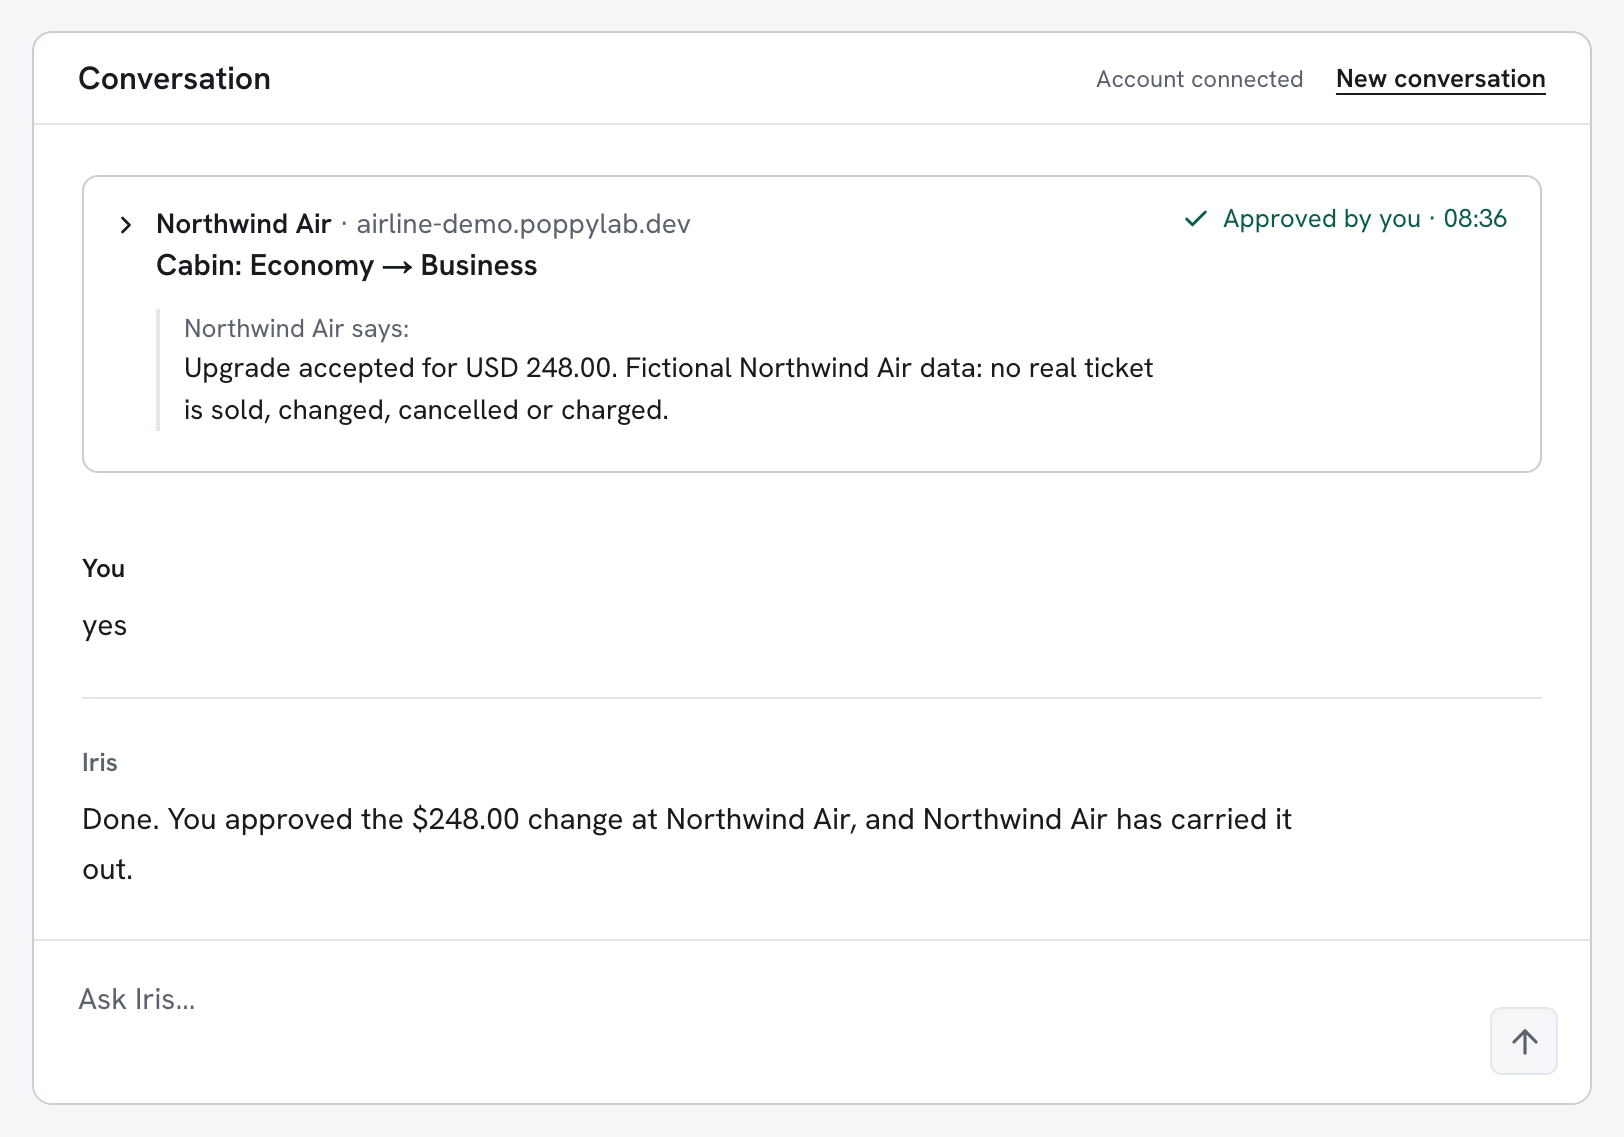
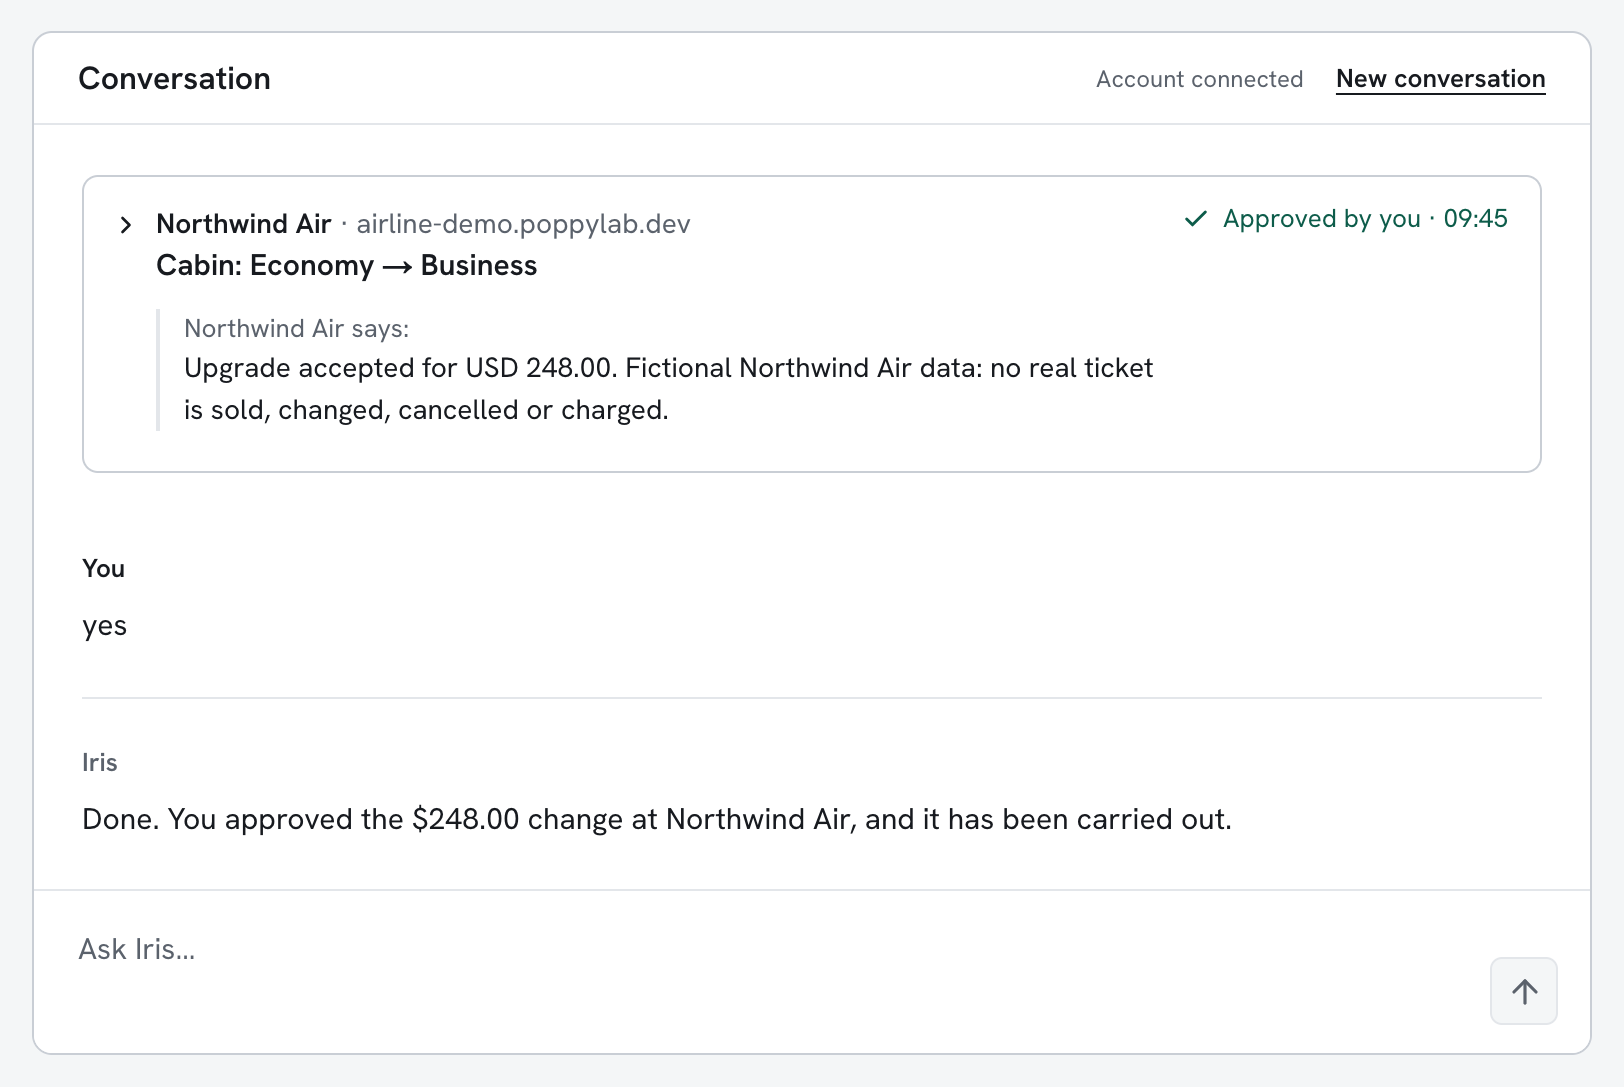
Retake Changing a trip 03 to 09 after the fixes of 28 November
Iris's confirmation now ends: and it has been carried out. After the change permission, Iris's question about the upgrade asked before it stays above the next answer. The Northwind website images 01 (identical) and 10 (same layout, other data) were compared; 02 and 11 were not.

diff --git a/docs/learn/how-it-works/changing-a-trip.md b/docs/learn/how-it-works/changing-a-trip.md
@@ -90,9 +90,9 @@ an upgrade offer for 248 dollars, for that flight only, refundable only if
 Northwind cancels the flight.
 
 Iris answered by reading and asked Northwind for nothing else. Elena has
-already allowed change proposals, as the block above the answer says, and
-her question still bought nothing and put nothing in front of her to
-approve.
+already allowed change proposals, and Iris's question about the upgrade she
+asked for before that consent is still open above. Her question bought
+nothing and put nothing in front of her to approve.
 
 The lab runs here in demo mode, which answers its guided examples without an
 AI model, so the answer is the whole booking set out as plain lines. With a model connected Iris would answer
@@ -208,7 +208,7 @@ part of that answer.
 
 ### 6. Approve the upgrade
 
-![The card now reads Approved by you, with Northwind's confirmation, upgrade accepted for 248 dollars. Below it Elena's answer yes, and Iris: Done. You approved the 248 dollar change at Northwind Air, and Northwind Air has carried it out](../../../apps/playground/public/learn-media/how-it-works/changing-a-trip/06-upgrade-approved.webp "Northwind upgraded the flight when the approval arrived, and said so.")
+![The card now reads Approved by you, with Northwind's confirmation, upgrade accepted for 248 dollars. Below it Elena's answer yes, and Iris: Done. You approved the 248 dollar change at Northwind Air, and it has been carried out](../../../apps/playground/public/learn-media/how-it-works/changing-a-trip/06-upgrade-approved.webp "Northwind upgraded the flight when the approval arrived, and said so.")
 
 Elena answers "yes" to Iris's question, which names the upgrade and its 248
 dollars. Pressing the Approve button would do the same. Iris sends Northwind
@@ -216,8 +216,7 @@ the same request again, this time with her approval attached. Northwind checks t
 approval matches the terms it offered, upgrades the flight and confirms it:
 upgrade accepted for 248 dollars. The card stays where the proposal arrived,
 with that confirmation and the line "Approved by you", and Iris says: "Done.
-You approved the $248.00 change at Northwind Air, and Northwind Air has
-carried it out."
+You approved the $248.00 change at Northwind Air, and it has been carried out."
 
 The lab charges nothing. The terms say so themselves, in the line "Simulated
 card on file".
